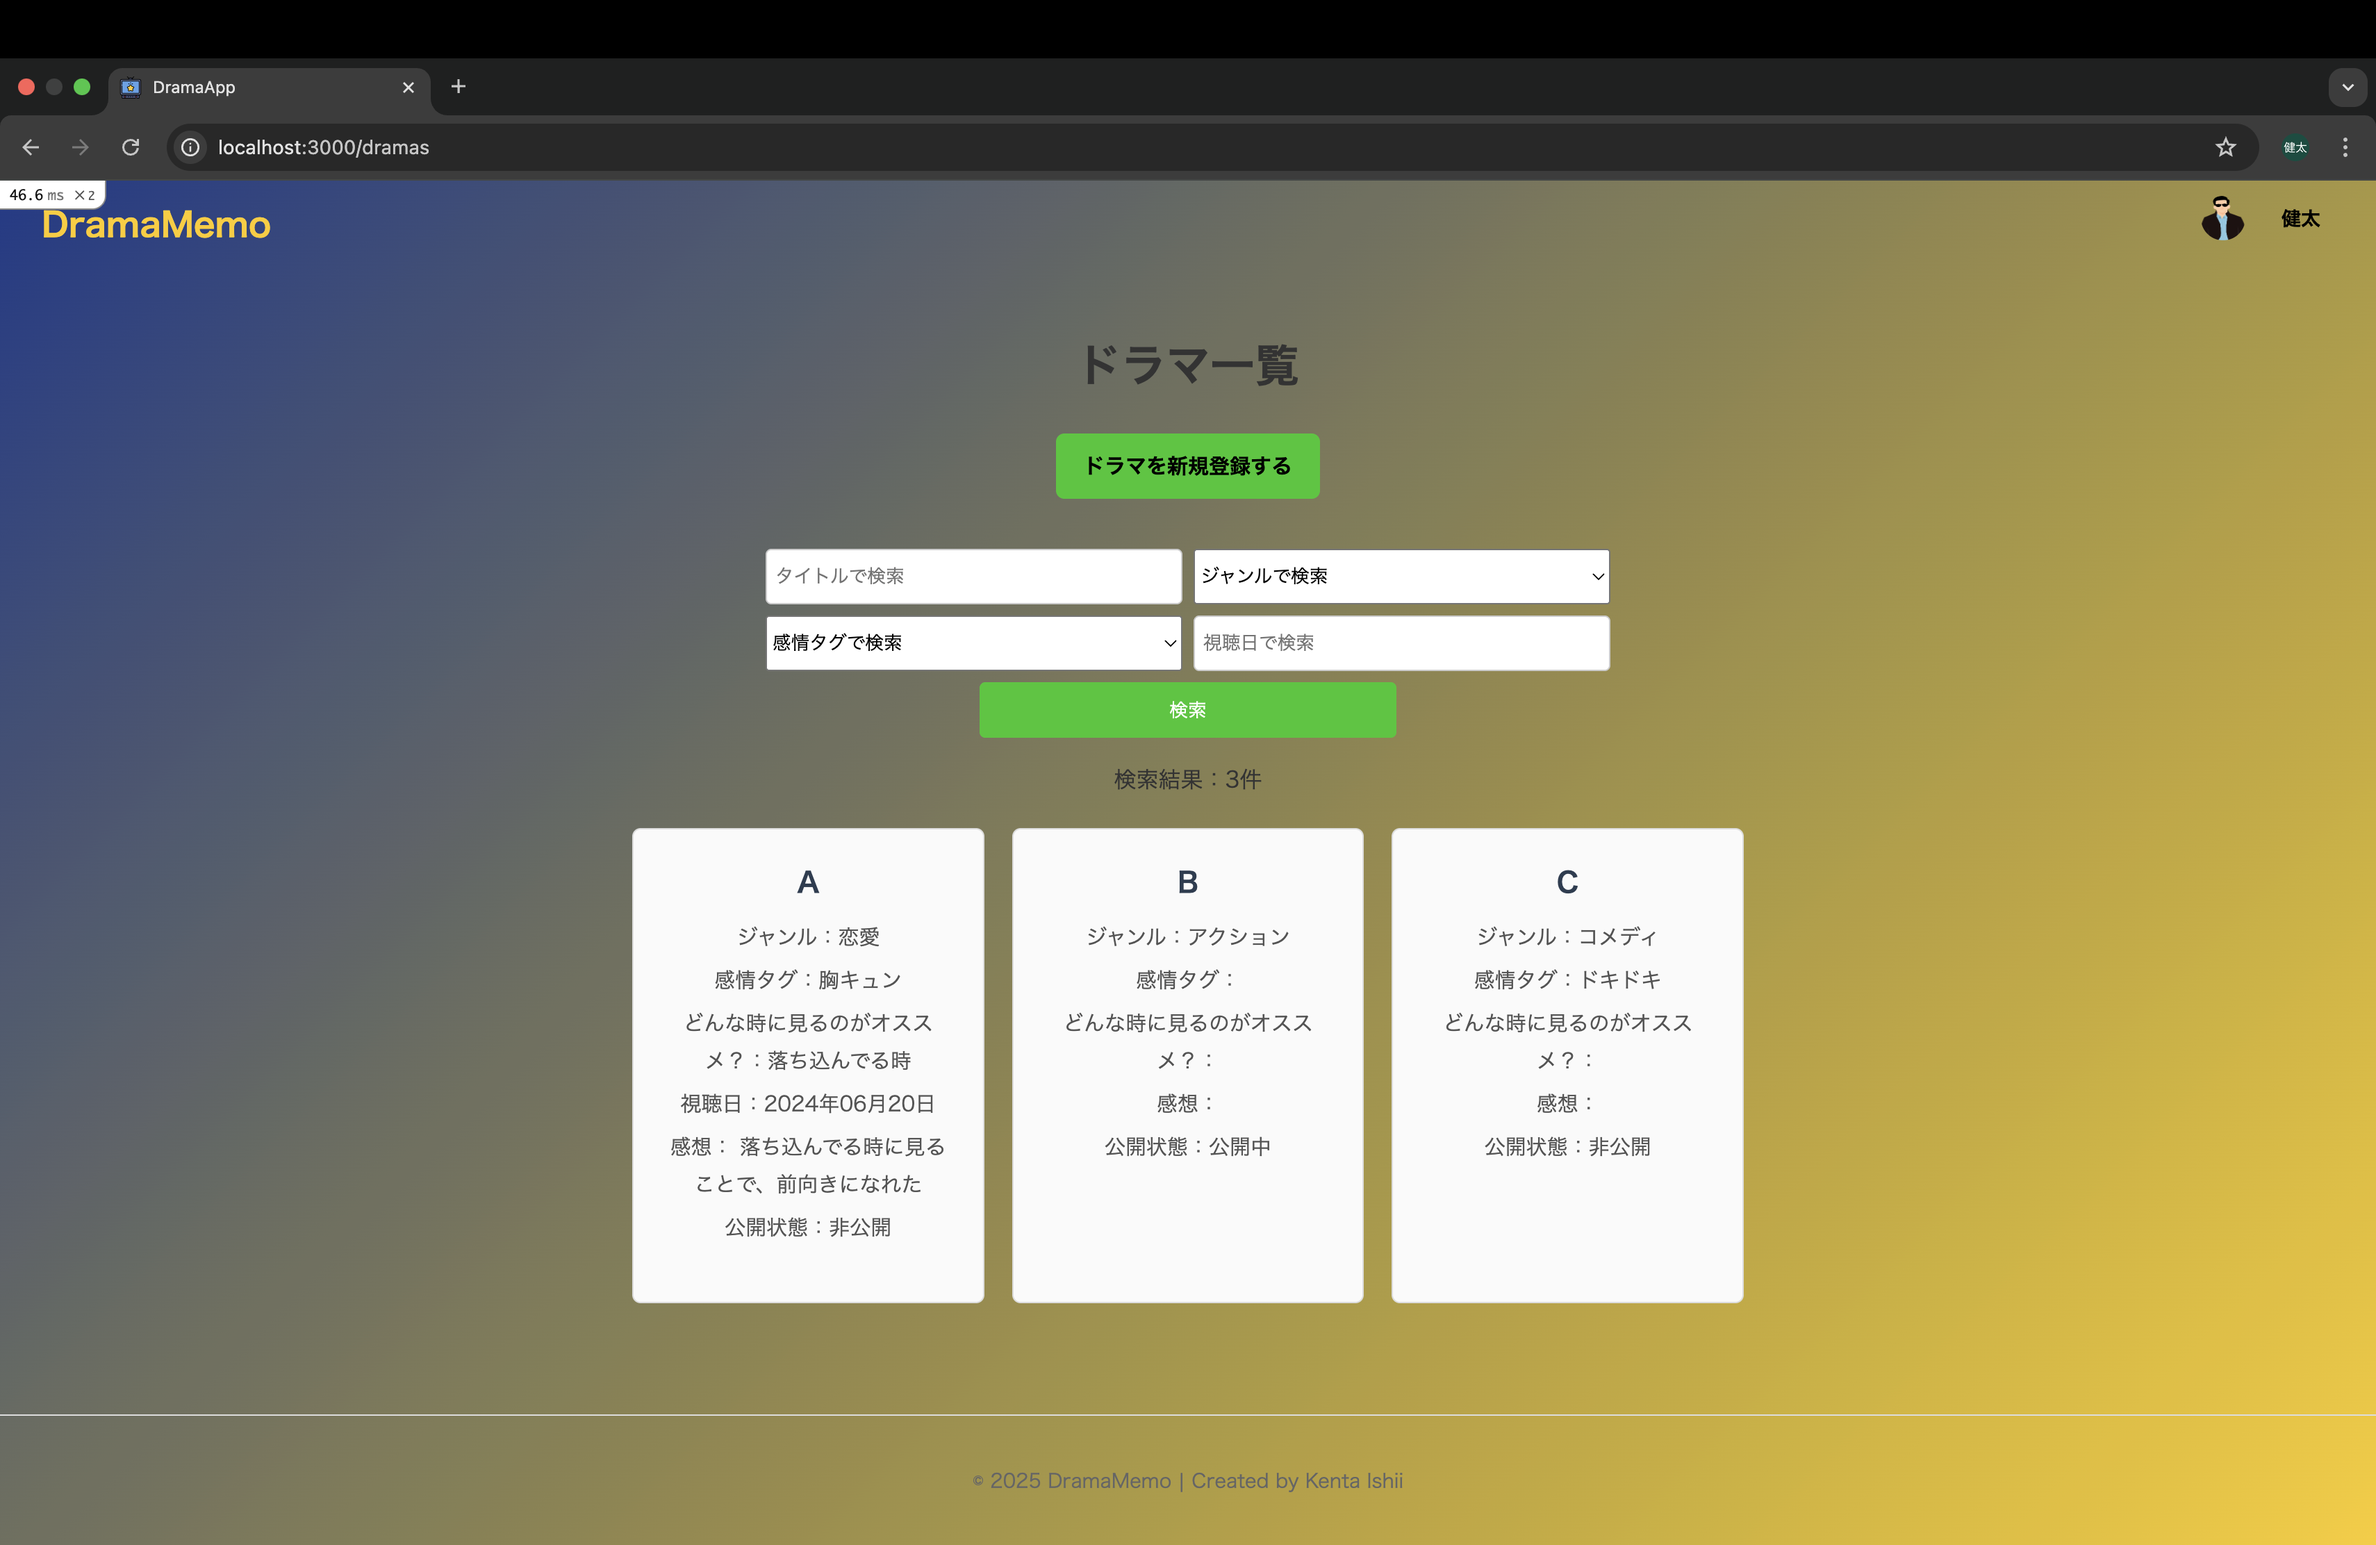
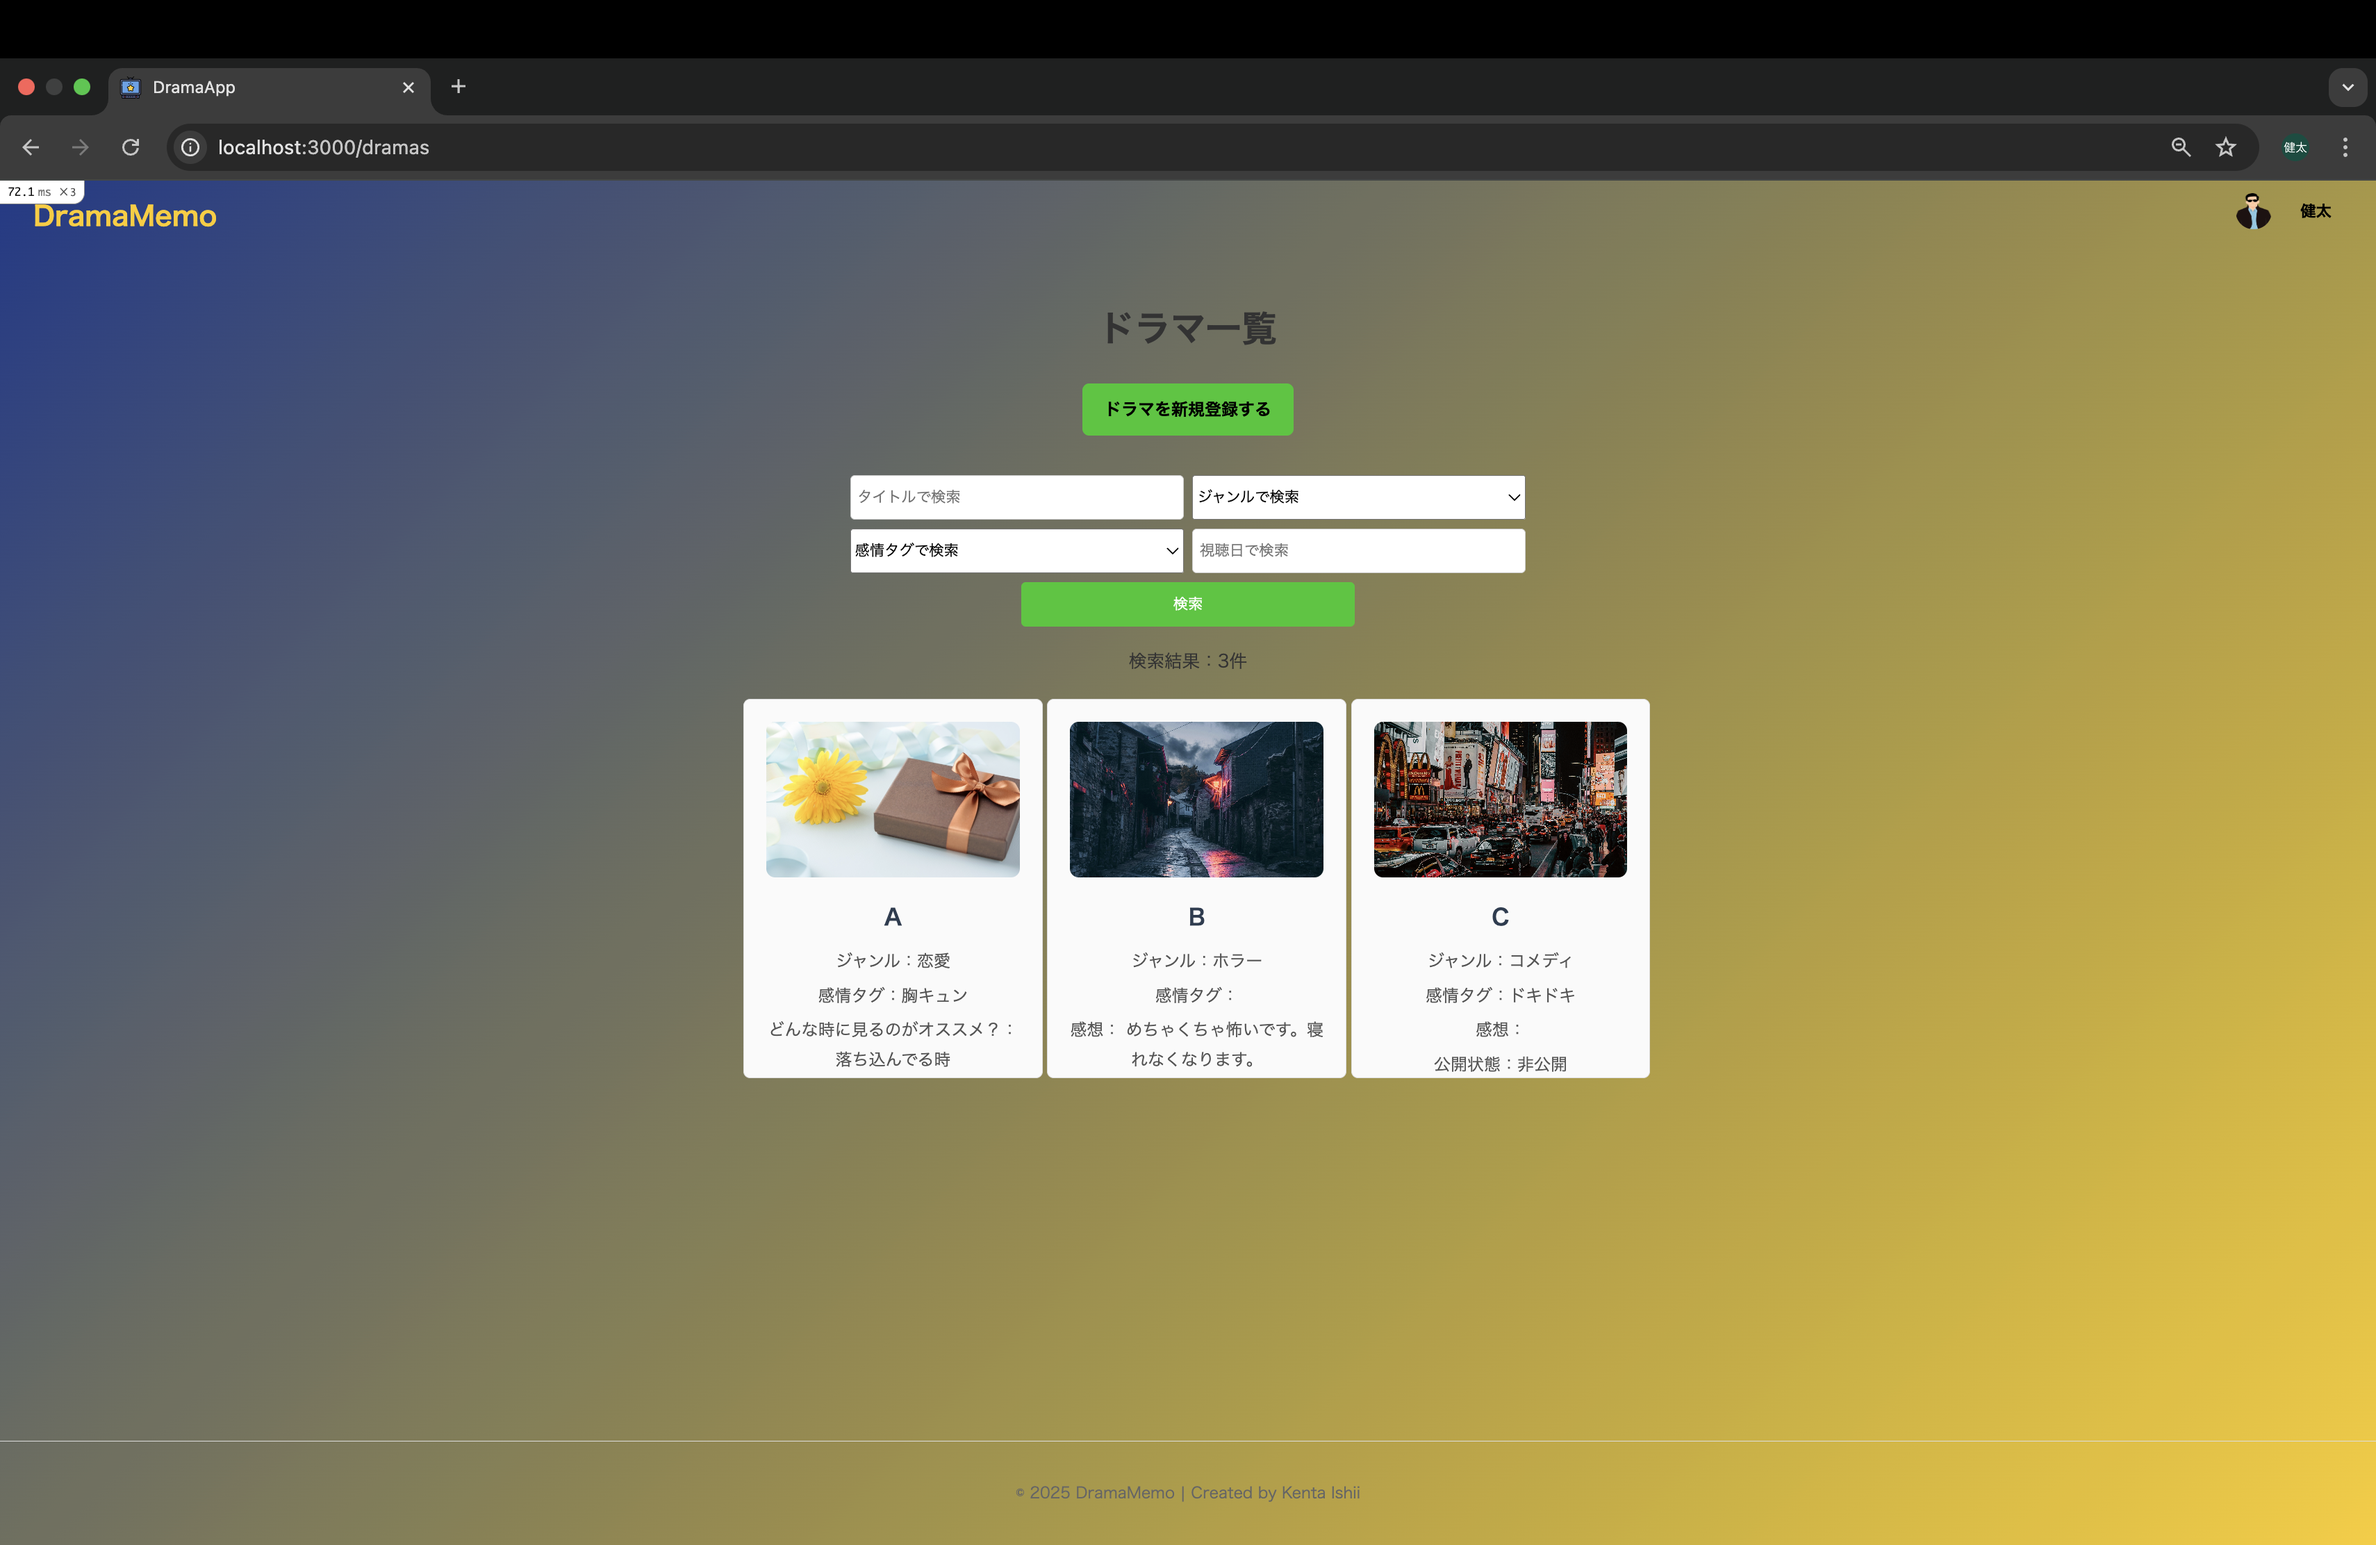
サムネイル追加、サンプルデータを10個追加

diff --git a/app/assets/stylesheets/application.css b/app/assets/stylesheets/application.css
@@ -195,6 +195,38 @@ header {
   gap: 10px;
 }
 
+/* サムネイル */
+.drama-thumbnail {
+  margin: 16px 0;
+}
+
+.drama-thumbnail img {
+  max-width: 100%;
+  height: auto;
+  border-radius: 8px;
+}
+
+.drama-card-thumbnail {
+  margin-bottom: 10px;
+}
+
+.drama-thumb {
+  width: 100%;
+  height: 140px;
+  object-fit: cover;
+  border-radius: 8px;
+}
+
+.drama-thumb.placeholder {
+  background: #f3f4f6;
+  color: #666;
+  height: 140px;
+  display: flex;
+  align-items: center;
+  justify-content: center;
+  font-weight: bold;
+}
+
 /* ドロップダウン全体 */
 .dropdown {
   position: relative;

diff --git a/app/assets/stylesheets/dramas.scss b/app/assets/stylesheets/dramas.scss
@@ -53,19 +53,23 @@
   display: grid;
   grid-template-columns: repeat(auto-fit, minmax(250px, 1fr));
   gap: 20px;
-  max-width: 1200px;
+  max-width: 1000px;
   margin: 20px auto;
+  justify-content: center;
+  justify-items: center;
 }
 
 /* ドラマカード */
 .drama-card {
+  max-width: 360px;
+  width: 90%;
   display: flex;
   flex-direction: column;
   justify-content: flex-start;
   border: 1px solid #ddd;
   border-radius: 6px;
   padding: 20px;
-  margin: 0;
+  margin: 0 auto;
   height: 300px;
   overflow: hidden;
   background-color: #fafafa;

diff --git a/db/seeds.rb b/db/seeds.rb
@@ -20,21 +20,122 @@ def attach_avatar(user, filename, force: false)
   )
 end
 
+# サムネ付与
+def attach_thumbnail(drama, filename, force: false)
+  return if drama.thumbnail.attached? && !force
+
+  path = Rails.root.join("app/assets/images/seed_thumbs", filename)
+  return unless File.exist?(path)
+
+  drama.thumbnail.purge if drama.thumbnail.attached?
+
+  drama.thumbnail.attach(
+    io: File.open(path),
+    filename: filename,
+    content_type: "image/png"
+  )
+end
+
 drama_samples = [
   {
-    title: "笑えるドラマ",
-    genre: "コメディ",
-    mood: "癒し"
-  },
-  {
-    title: "怖すぎるドラマ",
-    genre: "ホラー",
-    mood: "怖い"
-  },
-  {
-    title: "どきどきするドラマ",
+    title: "青空のしたの青春",
     genre: "恋愛",
-    mood: "ドキドキ"
+    mood: "癒し",
+    scene: "ほっとしたい時",
+    watched_on: Date.new(2025, 6, 20),
+    description: "懐かしさも感じられ、明るくなれる作品。",
+    is_public: true,
+    thumbnail: "thumb_01.png"
+  },
+  {
+    title: "噂のホテル",
+    genre: "ホラー",
+    mood: "怖い",
+    scene: "一人の夜は注意",
+    watched_on: Date.new(2025, 7, 3),
+    description: "クライマックスに近づくにつれて、怖さ増します。",
+    is_public: true,
+    thumbnail: "thumb_02.png"
+  },
+  {
+    title: "最弱のスーパーマン",
+    genre: "コメディ",
+    mood: "感動",
+    scene: "笑いも感動も欲してる時",
+    watched_on: Date.new(2025, 8, 15),
+    description: "弱すぎるヒーローが全てをかけて街を救う物語。",
+    is_public: false,
+    thumbnail: "thumb_03.png"
+  },
+  {
+    title: "防犯カメラの盲点",
+    genre: "サスペンス",
+    mood: "ドキドキ",
+    scene: "集中力がある夜",
+    watched_on: Date.new(2025, 9, 5),
+    description: "防犯カメラがある犯行現場で、何も写っていない違和感その謎に迫る。",
+    is_public: false,
+    thumbnail: "thumb_04.png"
+  },
+  {
+    title: "窓の外に立つ影",
+    genre: "ホラー",
+    mood: "怖い",
+    scene: "ゾクッとしたい夏の夜など",
+    watched_on: Date.new(2025, 10, 2),
+    description: "毎晩同じ時間に、窓の外に誰かが立っている。",
+    is_public: true,
+    thumbnail: "thumb_05.png"
+  },
+  {
+    title: "眠らない森",
+    genre: "ファンタジー",
+    mood: "癒し",
+    scene: "世界観に浸りたいとき",
+    watched_on: Date.new(2025, 11, 3),
+    description: "孤独感を感じた時に、その森に入ると楽しい気持ちになれる不思議な物語。",
+    is_public: false,
+    thumbnail: "thumb_06.png"
+  },
+  {
+    title: "帰還不能区域",
+    genre: "アクション",
+    mood: "ドキドキ",
+    scene: "ドキドキ、ワクワクしたいとき",
+    watched_on: Date.new(2025, 11, 20),
+    description: "地図にない区域で特殊部隊が任務を遂行していく。",
+    is_public: true,
+    thumbnail: "thumb_07.png"
+  },
+  {
+    title: "鍵のない扉",
+    genre: "ファンタジー",
+    mood: "癒し",
+    scene: "考察したい時",
+    watched_on: Date.new(2025, 12, 5),
+    description: "毎日決まった時間に、鍵のない扉が現れ、不思議な世界へ誘う。",
+    is_public: false,
+    thumbnail: "thumb_08.png"
+  },
+  {
+    title: "告白までの七日間",
+    genre: "恋愛",
+    mood: "胸キュン",
+    scene: "恋愛もの見たいとき",
+    watched_on: Date.new(2025, 12, 25),
+    description: "告白までの7日間何度もやり直し、小さな選択で関係が変わる。",
+    is_public: true,
+    thumbnail: "thumb_09.png"
+  },
+  {
+    title: "逃げ場のない街",
+    genre: "アクション",
+    mood: "ドキドキ",
+    scene: "ハラハラしたい時",
+    watched_on: Date.new(2025, 12, 28),
+    description: "出入口が封鎖された街で始まる逃走劇。",
+    is_public: false,
+    thumbnail: "thumb_10.png"
   }
 ]
 
@@ -48,13 +149,17 @@ attach_avatar(guest, "sample1.png", force: true)
 guest.dramas.destroy_all
 
 drama_samples.each do |sample|
-  guest.dramas.create!(
+  drama = guest.dramas.create!(
     title: sample[:title],
     genre: sample[:genre],
     mood: sample[:mood],
-    description: "ゲストユーザーのサンプル投稿です。",
-    is_public: true
+    scene: sample[:scene],
+    watched_on: sample[:watched_on],
+    description: sample[:description],
+    is_public: sample[:is_public]
   )
+
+  attach_thumbnail(drama, sample[:thumbnail], force: true)
 end
 
 # サンプルユーザー
@@ -89,12 +194,16 @@ sample_users.each do |data|
   user.dramas.destroy_all
 
   drama_samples.each do |sample|
-    user.dramas.create!(
+    drama = user.dramas.create!(
       title: sample[:title],
       genre: sample[:genre],
       mood: sample[:mood],
-      description: "#{user.name}のサンプル投稿です。",
-      is_public: true
+      scene: sample[:scene],
+      watched_on: sample[:watched_on],
+      description: "#{user.name}のコメント：#{sample[:description]}",
+      is_public: sample[:is_public]
     )
+
+    attach_thumbnail(drama, sample[:thumbnail], force: true)
   end
 end

diff --git a/spec/models/drama_spec.rb b/spec/models/drama_spec.rb
@@ -96,4 +96,18 @@ RSpec.describe Drama, type: :model do
       expect(described_class.private_dramas).to contain_exactly(private_drama)
     end
   end
+
+  describe "サムネイル" do
+    it "サムネイルを添付できること" do
+      drama = create(:drama, user: user)
+
+      drama.thumbnail.attach(
+        io: Rails.root.join("spec/fixtures/sample.png").open,
+        filename: "sample.png",
+        content_type: "image/png"
+      )
+
+      expect(drama.thumbnail).to be_attached
+    end
+  end
 end

diff --git a/app/controllers/dramas_controller.rb b/app/controllers/dramas_controller.rb
@@ -55,6 +55,6 @@ class DramasController < ApplicationController
   end
 
   def drama_params
-    params.require(:drama).permit(:title, :genre, :description, :watched_on, :mood, :scene, :is_public)
+    params.require(:drama).permit(:title, :genre, :description, :watched_on, :mood, :scene, :is_public, :thumbnail)
   end
 end

diff --git a/app/models/drama.rb b/app/models/drama.rb
@@ -1,6 +1,7 @@
 class Drama < ApplicationRecord
   validates :title, presence: true
   belongs_to :user
+  has_one_attached :thumbnail
 
   GENRES = %w[コメディ 恋愛 アクション ファンタジー ホラー サスペンス].freeze
   MOODS = %w[癒し 感動 怖い ドキドキ 胸キュン].freeze

diff --git a/README.md b/README.md
@@ -62,6 +62,9 @@ Herokuの一時的(エフェメラル)な保存を考慮して、ActiveStorage +
 ## 検索機能
 感情タグやジャンルで絞り込めたりすることで、たくさんドラマ登録があっても探しやすいようにしました。
 
+## 一覧と詳細で役割を分けたUI設計
+ドラマ一覧画面では、サムネイルと概要情報のみを表示し、詳細画面で全文を確認できる構成にしました。
+
 # 画面イメージ
 
 | トップページ | ドラマ一覧・検索画 |
